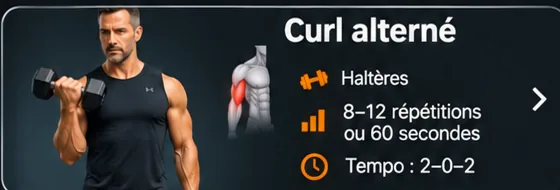
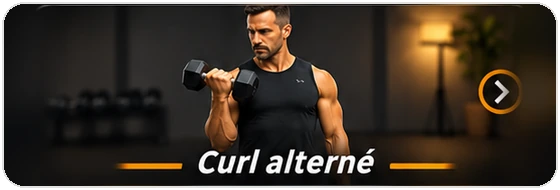
Add files via upload

diff --git a/biceps-v2.js b/biceps-v2.js
@@ -1,0 +1,284 @@
+// BICEPS V2 — même navigation et mêmes fiches détaillées que Pectoraux, Dos et Épaules.
+// Remplace uniquement l'ancien affichage Biceps ; les autres univers restent intacts.
+const bicepsModernExercices = [
+  {
+    "id": "curl-marteau",
+    "titre": "Curl marteau",
+    "cible": "Brachial, brachio-radial et biceps",
+    "materiel": "Deux haltères",
+    "niveau": "Tous niveaux",
+    "series": "3",
+    "repetitions": "8 à 12",
+    "tempo": "2–0–2",
+    "repos": "45 à 60 s",
+    "execution": [
+      "Debout, pieds largeur de hanches, un haltère dans chaque main.",
+      "Garde les paumes face à face et les coudes proches du buste.",
+      "Fléchis les bras sans balancer les épaules ni le dos.",
+      "Redescends lentement jusqu’à presque tendre les bras."
+    ],
+    "conseil": "Conserve une prise neutre du début à la fin. Commence avec une charge contrôlable.",
+    "erreurs": "Balancement du tronc, coudes qui avancent, poignets cassés.",
+    "image": "./biceps-curl-marteau.webp"
+  },
+  {
+    "id": "curl-classique",
+    "titre": "Curl classique",
+    "cible": "Biceps brachial, brachial",
+    "materiel": "Deux haltères",
+    "niveau": "Tous niveaux",
+    "series": "3",
+    "repetitions": "8 à 12",
+    "tempo": "2–0–2",
+    "repos": "45 à 60 s",
+    "execution": [
+      "Debout, épaules basses, tiens les haltères paumes tournées vers l’avant.",
+      "Colle les coudes près du corps et stabilise le buste.",
+      "Monte les haltères vers les épaules sans donner d’élan.",
+      "Redescends sous contrôle sans verrouiller brutalement les coudes."
+    ],
+    "conseil": "Conserve une tension continue dans les biceps sans accélérer la descente.",
+    "erreurs": "Dos cambré, épaules haussées, répétitions réalisées avec de l’élan.",
+    "image": "./biceps-curl-classique.webp"
+  },
+  {
+    "id": "curl-alterne",
+    "titre": "Curl alterné",
+    "cible": "Biceps, brachial, coordination",
+    "materiel": "Deux haltères",
+    "niveau": "Tous niveaux",
+    "series": "3",
+    "repetitions": "8 à 12 par bras",
+    "tempo": "2–0–2",
+    "repos": "45 à 60 s",
+    "execution": [
+      "Debout avec un haltère dans chaque main, bras le long du corps.",
+      "Fléchis un bras et tourne progressivement la paume vers le haut.",
+      "Redescends lentement l’haltère jusqu’à la position initiale.",
+      "Alterne avec l’autre bras en gardant le buste immobile."
+    ],
+    "conseil": "Évite de commencer la répétition suivante avant d’avoir contrôlé la descente.",
+    "erreurs": "Rotation excessive de l’épaule, coude qui s’éloigne, balancement du corps.",
+    "image": "./biceps-curl-alterne.webp"
+  },
+  {
+    "id": "curl-concentration",
+    "titre": "Curl concentration",
+    "cible": "Biceps brachial",
+    "materiel": "Un haltère et un siège stable",
+    "niveau": "Tous niveaux",
+    "series": "3 par bras",
+    "repetitions": "10 à 12 par bras",
+    "tempo": "2–1–2",
+    "repos": "45 s entre bras",
+    "execution": [
+      "Assieds-toi, jambes écartées, buste légèrement penché vers l’avant.",
+      "Pose l’arrière du bras contre la face interne de la cuisse, au-dessus du genou.",
+      "Fléchis lentement le coude pour rapprocher l’haltère de l’épaule.",
+      "Redescends sans décoller le bras de son appui, puis change de côté."
+    ],
+    "conseil": "Utilise une charge modérée pour sentir le biceps travailler sans tricher.",
+    "erreurs": "Bras appuyé directement sur le genou, coude qui bouge, mouvement brusque.",
+    "image": "./biceps-curl-concentration.webp"
+  },
+  {
+    "id": "curl-zottman",
+    "titre": "Curl Zottman",
+    "cible": "Biceps, brachio-radial, avant-bras",
+    "materiel": "Deux haltères légers",
+    "niveau": "Intermédiaire",
+    "series": "3",
+    "repetitions": "8 à 12",
+    "tempo": "2–1–3",
+    "repos": "60 s",
+    "execution": [
+      "Debout, bras le long du corps, haltères en prise neutre.",
+      "Monte les haltères en supination, paumes vers toi en fin de montée.",
+      "En haut, tourne les poignets en pronation, paumes vers le bas.",
+      "Redescends lentement puis reviens en prise de départ."
+    ],
+    "conseil": "Commence léger : la descente en pronation sollicite fortement les avant-bras.",
+    "erreurs": "Rotation forcée du poignet, charge trop lourde, descente précipitée.",
+    "image": "./biceps-curl-zottman.webp"
+  },
+  {
+    "id": "curl-prise-inversee",
+    "titre": "Curl prise inversée",
+    "cible": "Brachial, brachio-radial, avant-bras",
+    "materiel": "Deux haltères",
+    "niveau": "Intermédiaire",
+    "series": "3",
+    "repetitions": "10 à 12",
+    "tempo": "2–0–2",
+    "repos": "45 à 60 s",
+    "execution": [
+      "Tiens les haltères paumes vers le bas, poignets droits.",
+      "Garde les coudes proches du buste et les épaules détendues.",
+      "Fléchis les coudes sans casser les poignets.",
+      "Redescends sous contrôle et conserve la prise en pronation."
+    ],
+    "conseil": "Prends moins lourd que pour un curl classique : les avant-bras participent beaucoup.",
+    "erreurs": "Poignets pliés, élan du dos, prise qui se transforme en supination.",
+    "image": "./biceps-curl-prise-inversee.webp"
+  },
+  {
+    "id": "curl-assis",
+    "titre": "Curl assis",
+    "cible": "Biceps brachial, brachial",
+    "materiel": "Deux haltères et chaise stable",
+    "niveau": "Tous niveaux",
+    "series": "3",
+    "repetitions": "8 à 12",
+    "tempo": "2–0–2",
+    "repos": "45 à 60 s",
+    "execution": [
+      "Assieds-toi sur un siège stable, pieds bien au sol et dos neutre.",
+      "Laisse pendre les haltères de chaque côté du corps.",
+      "Fléchis les coudes en gardant les épaules immobiles.",
+      "Redescends lentement sans basculer le buste."
+    ],
+    "conseil": "La position assise aide à limiter l’élan. Ne cambre pas les lombaires.",
+    "erreurs": "Se pencher en arrière, avancer les coudes, descendre trop vite.",
+    "image": "./biceps-curl-assis.webp"
+  },
+  {
+    "id": "curl-unilateral",
+    "titre": "Curl unilatéral",
+    "cible": "Biceps brachial, stabilité",
+    "materiel": "Un haltère",
+    "niveau": "Tous niveaux",
+    "series": "3 par bras",
+    "repetitions": "8 à 12 par bras",
+    "tempo": "2–0–2",
+    "repos": "30 à 45 s entre bras",
+    "execution": [
+      "Debout, tiens un haltère dans une main, autre bras relâché.",
+      "Garde le buste droit et le coude proche de la taille.",
+      "Fléchis le bras en contrôlant la montée.",
+      "Redescends lentement et répète avant de changer de côté."
+    ],
+    "conseil": "Travaille les deux côtés avec la même qualité de mouvement, même si une main est plus forte.",
+    "erreurs": "S’incliner sur le côté, tourner le bassin, donner un coup d’élan.",
+    "image": "./biceps-curl-unilateral.webp"
+  },
+  {
+    "id": "curl-isometrique",
+    "titre": "Curl isométrique",
+    "cible": "Biceps et gainage postural",
+    "materiel": "Deux haltères légers",
+    "niveau": "Tous niveaux",
+    "series": "3",
+    "repetitions": "Maintien 30 à 60 s",
+    "tempo": "Statique",
+    "repos": "45 à 60 s",
+    "execution": [
+      "Tiens les haltères avec les coudes fléchis autour de 90 degrés.",
+      "Reste droit, omoplates basses et abdominaux légèrement engagés.",
+      "Maintiens les avant-bras dans la même position en respirant librement.",
+      "Relâche progressivement puis repose les bras entre les séries."
+    ],
+    "conseil": "Commence par 15 à 20 secondes si nécessaire et allonge progressivement le maintien.",
+    "erreurs": "Bloquer la respiration, hausser les épaules, laisser le dos se cambrer.",
+    "image": "./biceps-curl-isometrique.webp"
+  },
+  {
+    "id": "curl-kettlebell",
+    "titre": "Curl kettlebell",
+    "cible": "Biceps, brachial, avant-bras",
+    "materiel": "Une kettlebell",
+    "niveau": "Tous niveaux",
+    "series": "3",
+    "repetitions": "8 à 12",
+    "tempo": "2–0–2",
+    "repos": "45 à 60 s",
+    "execution": [
+      "Debout, tiens la kettlebell à deux mains par les côtés de la poignée.",
+      "Garde les coudes près du corps et les poignets neutres.",
+      "Fléchis les coudes pour monter la kettlebell vers la poitrine.",
+      "Redescends lentement sans balancer le buste."
+    ],
+    "conseil": "Choisis une kettlebell stable et garde les mains bien placées sur la poignée.",
+    "erreurs": "Laisser la charge se balancer, projeter les épaules, plier les poignets.",
+    "image": "./biceps-curl-kettlebell.webp"
+  }
+];
+let selectedBicepsModernExercise = null;
+
+function bicepsModernPhotoMarkup(exercice, detail=false) {
+  // Le titre, le cadre et la flèche sont déjà intégrés au WebP : aucun doublon HTML.
+  return `<span class="muscu-biceps-modern-photo"><img src="${exercice.image}" alt="" loading="${detail ? "eager" : "lazy"}"></span>`;
+}
+function renderMuscuBicepsModern() {
+  main.innerHTML = `
+    <section class="muscu-biceps-v1 muscu-biceps-modern-v1" aria-label="Exercices biceps">
+      <button type="button" class="muscu-back-pill muscu-biceps-back" id="muscuBicepsModernBack" aria-label="Retour aux groupes musculaires">
+        <span class="muscu-back-arrow">←</span><span>Retour</span>
+      </button>
+      <div class="muscu-biceps-heading">
+        <div class="muscu-biceps-icon" aria-hidden="true">⌁</div>
+        <div>
+          <div class="muscu-biceps-kicker">EXERCICES</div>
+          <h2>Biceps</h2>
+          <p>10 exercices pour renforcer les biceps à la maison</p>
+        </div>
+      </div>
+      <div class="muscu-biceps-modern-list">
+        ${bicepsModernExercices.map(exercice=>`<button type="button" class="muscu-biceps-modern-card" data-biceps-modern-exercise="${exercice.id}" aria-label="Ouvrir la fiche ${esc(exercice.titre)}">
+          ${bicepsModernPhotoMarkup(exercice)}
+        </button>`).join("")}
+      </div>
+    </section>`;
+  document.getElementById("muscuBicepsModernBack")?.addEventListener("click",()=>{state.view="muscu-exercises";render();});
+  document.querySelectorAll("[data-biceps-modern-exercise]").forEach(btn=>btn.addEventListener("click",()=>{
+    selectedBicepsModernExercise=btn.dataset.bicepsModernExercise;
+    renderMuscuBicepsModernDetail();
+  }));
+}
+function renderMuscuBicepsModernDetail() {
+  const exercice=bicepsModernExercices.find(x=>x.id===selectedBicepsModernExercise);
+  if(!exercice) return renderMuscuBicepsModern();
+  main.innerHTML = `
+    <section class="muscu-biceps-v1 muscu-biceps-modern-v1 muscu-biceps-modern-fiche" aria-label="Fiche ${esc(exercice.titre)}">
+      <button type="button" class="muscu-back-pill muscu-biceps-back" id="muscuBicepsModernDetailBack" aria-label="Retour à la liste Biceps">
+        <span class="muscu-back-arrow">←</span><span>Retour aux biceps</span>
+      </button>
+      <header class="muscu-biceps-modern-fiche-en-tete">
+        <div class="muscu-biceps-kicker">BICEPS · FICHE EXERCICE</div>
+        <h2>${esc(exercice.titre)}</h2>
+        <p>${esc(exercice.cible)}</p>
+      </header>
+      <div class="muscu-biceps-modern-fiche-visuel">${bicepsModernPhotoMarkup(exercice,true)}</div>
+      <div class="muscu-biceps-modern-fiche-stats">
+        <div><span>Matériel</span><strong>${esc(exercice.materiel)}</strong></div>
+        <div><span>Niveau</span><strong>${esc(exercice.niveau)}</strong></div>
+        <div><span>Séries</span><strong>${esc(exercice.series)}</strong></div>
+        <div><span>Répétitions / durée</span><strong>${esc(exercice.repetitions)}</strong></div>
+        <div><span>Tempo</span><strong>${esc(exercice.tempo)}</strong></div>
+        <div><span>Repos</span><strong>${esc(exercice.repos)}</strong></div>
+      </div>
+      <section class="muscu-biceps-modern-fiche-section">
+        <h3>Exécution</h3>
+        <ol>${exercice.execution.map(x=>`<li>${esc(x)}</li>`).join("")}</ol>
+      </section>
+      <section class="muscu-biceps-modern-fiche-section"><h3>Conseil</h3><p>${esc(exercice.conseil)}</p></section>
+      <section class="muscu-biceps-modern-fiche-section"><h3>Erreurs à éviter</h3><p>${esc(exercice.erreurs)}</p></section>
+      <p class="muscu-biceps-modern-precaution">Adapte les charges à ton niveau. Arrête si une douleur apparaît. Respire normalement.</p>
+    </section>`;
+  document.getElementById("muscuBicepsModernDetailBack")?.addEventListener("click",()=>renderMuscuBicepsModern());
+}
+
+// Le bouton Biceps existe déjà dans le menu et change state.view :
+// remplacer sa fonction de rendu suffit, sans modifier app.js ni les autres groupes.
+renderMuscuBiceps = function(){return renderMuscuBicepsModern();};
+
+// Harmoniser l'en-tête avec Épaules, Dos et Pectoraux.
+const ancienUpdateShellAvantBicepsV2 = updateShell;
+updateShell = function(){
+  ancienUpdateShellAvantBicepsV2();
+  if (state.view === "muscu-biceps") {
+    bottomNav.classList.add("hidden");
+    brandMark.textContent="M";
+    brandEyebrow.textContent="Ma bibliothèque";
+    brandTitle.textContent="Musculation";
+  }
+};

diff --git a/biceps-v2.css b/biceps-v2.css
@@ -1,0 +1,35 @@
+/* BICEPS : une seule bordure (déjà dans les images) et aucune déformation. */
+/* Biceps V2 : 10 vrais bandeaux 560 x 190; modele identique aux Pectoraux. */
+
+/* Pectoraux V3 : 10 vrais bandeaux 560 x 190; pas de recadrage ni de double texte. */
+.muscu-biceps-modern-v1{max-width:820px}
+.muscu-biceps-modern-list{display:grid;grid-template-columns:minmax(0,560px);justify-content:center;gap:14px;width:100%}
+.muscu-biceps-modern-card,.muscu-biceps-modern-fiche-visuel{box-sizing:border-box;display:block;position:relative;aspect-ratio:560/190;width:100%;max-width:560px;padding:0;margin:0;overflow:hidden;border:0;border-radius:0;background:#080c10;isolation:isolate}
+.muscu-biceps-modern-card{cursor:pointer;box-shadow:0 10px 25px rgba(0,0,0,.24)}
+.muscu-biceps-modern-card:focus-visible{outline:3px solid #ff9000;outline-offset:3px}
+.muscu-biceps-modern-card:active{transform:scale(.994)}
+.muscu-biceps-modern-photo{display:block;position:absolute;inset:0;overflow:hidden;z-index:0}
+.muscu-biceps-modern-photo img{display:block;width:100%;height:100%;object-fit:contain;object-position:center;border:0}
+.muscu-biceps-modern-fiche{max-width:820px}
+.muscu-biceps-modern-fiche-en-tete{border-bottom:2px solid #ff7d00;padding-bottom:14px;margin-bottom:16px}
+.muscu-biceps-modern-fiche-en-tete h2{font-size:clamp(1.6rem,4vw,2.4rem);line-height:1.14;color:#fff;margin:5px 0 8px}
+.muscu-biceps-modern-fiche-en-tete p{color:#e1e4e7;font-size:.98rem;margin:0;line-height:1.4}
+.muscu-biceps-modern-fiche-visuel{max-width:none;margin-bottom:16px;border-radius:19px}
+.muscu-biceps-modern-fiche-stats{display:grid;grid-template-columns:repeat(2,minmax(0,1fr));gap:10px;margin:16px 0}
+.muscu-biceps-modern-fiche-stats>div{min-width:0;border:1px solid rgba(255,255,255,.33);border-radius:14px;padding:12px 14px;background:rgba(255,255,255,.065)}
+.muscu-biceps-modern-fiche-stats span{display:block;color:#ff9c36;font-size:.8rem;font-weight:900;margin-bottom:5px}
+.muscu-biceps-modern-fiche-stats strong{display:block;font-size:1rem;line-height:1.28;color:#fff;overflow-wrap:anywhere}
+.muscu-biceps-modern-fiche-section{background:rgba(255,255,255,.055);border:1px solid rgba(255,255,255,.14);border-radius:18px;padding:18px;margin:12px 0}
+.muscu-biceps-modern-fiche-section h3{color:#ff9328;font-size:1.22rem;margin:0 0 12px}
+.muscu-biceps-modern-fiche-section ol{padding-left:22px;margin:0;display:grid;gap:12px}
+.muscu-biceps-modern-fiche-section li{color:#fff;padding-left:4px;line-height:1.45}
+.muscu-biceps-modern-fiche-section p{margin:0;line-height:1.48;color:#fff}
+.muscu-biceps-modern-precaution{font-size:.8rem;color:#d0d5da;line-height:1.4;margin:14px 3px 0}
+@media(max-width:750px){
+  .muscu-biceps-modern-list{grid-template-columns:minmax(0,560px);gap:10px}
+  .muscu-biceps-modern-card,.muscu-biceps-modern-fiche-visuel{border-radius:0}
+  .muscu-biceps-modern-fiche-stats{gap:8px}
+  .muscu-biceps-modern-fiche-stats>div{padding:10px}
+  .muscu-biceps-modern-fiche-stats strong{font-size:.9rem}
+  .muscu-biceps-modern-fiche-section{padding:14px}
+}

diff --git a/sw.js b/sw.js
@@ -1,10 +1,10 @@
 // Ma Bibliothèque — mise à jour Pectoraux et correctif cache de navigation PWA.
-// v86 : noveaux bandeaux et mise a jour du cache; les pages et scripts se rechargent depuis le réseau dès qu'il est disponible.
-const CACHE = "ma-bibliotheque-v86";
+// v87 : noveaux bandeaux et mise a jour du cache; les pages et scripts se rechargent depuis le réseau dès qu'il est disponible.
+const CACHE = "ma-bibliotheque-v87";
 const CORE = [
   "./", "./index.html", "./styles.css", "./app.js", "./data.json",
   "./manifest.json", "./icon-192.png", "./icon-512.png",
-  "./pectoraux-v1.js", "./pectoraux-v1.css", "./dos-v1.js", "./dos-v1.css", "./epaules-v1.js", "./epaules-v1.css"
+  "./pectoraux-v1.js", "./pectoraux-v1.css", "./dos-v1.js", "./dos-v1.css", "./epaules-v1.js", "./epaules-v1.css", "./biceps-v2.js", "./biceps-v2.css"
 ];
 const PECTORAL_IMAGES = [
   "pompes-classiques", "pompes-inclinees", "pompes-declinees",
@@ -63,7 +63,7 @@ self.addEventListener("install", event => {
     const cacheNames = await caches.keys();
     const hasPreviousCache = cacheNames.some(name => name.startsWith("ma-bibliotheque-") && name !== CACHE);
     if (hasPreviousCache) {
-      await Promise.all([...PECTORAL_IMAGES, ...DOS_IMAGES, ...EPAULES_IMAGES].map(async path => {
+      await Promise.all([...PECTORAL_IMAGES, ...DOS_IMAGES, ...EPAULES_IMAGES, ...BICEPS].map(async path => {
         try {
           const response = await fetch(path, {cache:"no-store"});
           if (response.ok) await cache.put(path, response);
@@ -78,7 +78,8 @@ self.addEventListener("install", event => {
     const css = await (await cache.match("./styles.css")).text();
     const pectoralCode = await (await cache.match("./pectoraux-v1.js")).text();
     const epaulesCode = await (await cache.match("./epaules-v1.js")).text();
-    const sources = [code, css, pectoralCode, epaulesCode].join("\n");
+    const bicepsCode = await (await cache.match("./biceps-v2.js")).text();
+    const sources = [code, css, pectoralCode, epaulesCode, bicepsCode].join("\n");
     const referencedImages = [...sources.matchAll(/\.\/[a-zA-Z0-9_-]+\.(?:webp|png)/g)]
       .map(m => m[0]);
     const images = [...new Set([...referencedImages, ...PECTORAL_IMAGES, ...DOS_IMAGES, ...EPAULES_IMAGES, ...BICEPS, ...MUSCLE_GROUPS])];
@@ -119,7 +120,7 @@ self.addEventListener("fetch", event => {
   if (url.origin !== self.location.origin) return;
   const path = url.pathname;
   const nav = request.mode === "navigate" || path.endsWith("/") || path.endsWith("/index.html");
-  const freshFile = /\/(?:index\.html|styles\.css|app\.js|data\.json|manifest\.json|sw\.js|pectoraux-v1\.js|pectoraux-v1\.css|dos-v1\.js|dos-v1\.css|epaules-v1\.js|epaules-v1\.css)$/.test(path);
+  const freshFile = /\/(?:index\.html|styles\.css|app\.js|data\.json|manifest\.json|sw\.js|pectoraux-v1\.js|pectoraux-v1\.css|dos-v1\.js|dos-v1\.css|epaules-v1\.js|epaules-v1\.css|biceps-v2\.js|biceps-v2\.css)$/.test(path);
   if (nav || freshFile) {
     event.respondWith((async () => {
       const cache = await caches.open(CACHE);

diff --git a/index.html b/index.html
@@ -12,6 +12,7 @@
   <link rel="stylesheet" href="./pectoraux-v1.css?v=3">
   <link rel="stylesheet" href="./dos-v1.css?v=1">
   <link rel="stylesheet" href="./epaules-v1.css?v=1">
+  <link rel="stylesheet" href="./biceps-v2.css?v=1">
   <title>Ma Bibliothèque</title>
 </head>
 <body>
@@ -54,5 +55,6 @@
   <script src="./pectoraux-v1.js?v=3"></script>
   <script src="./dos-v1.js?v=2"></script>
   <script src="./epaules-v1.js?v=1"></script>
+  <script src="./biceps-v2.js?v=1"></script>
 </body>
 </html>
